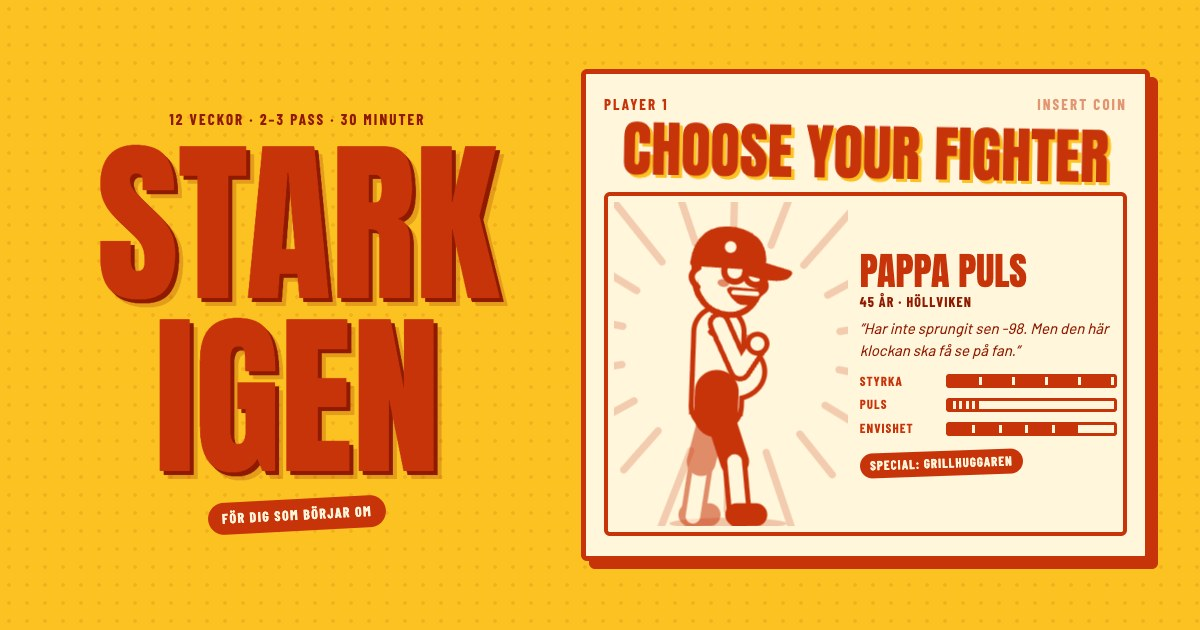
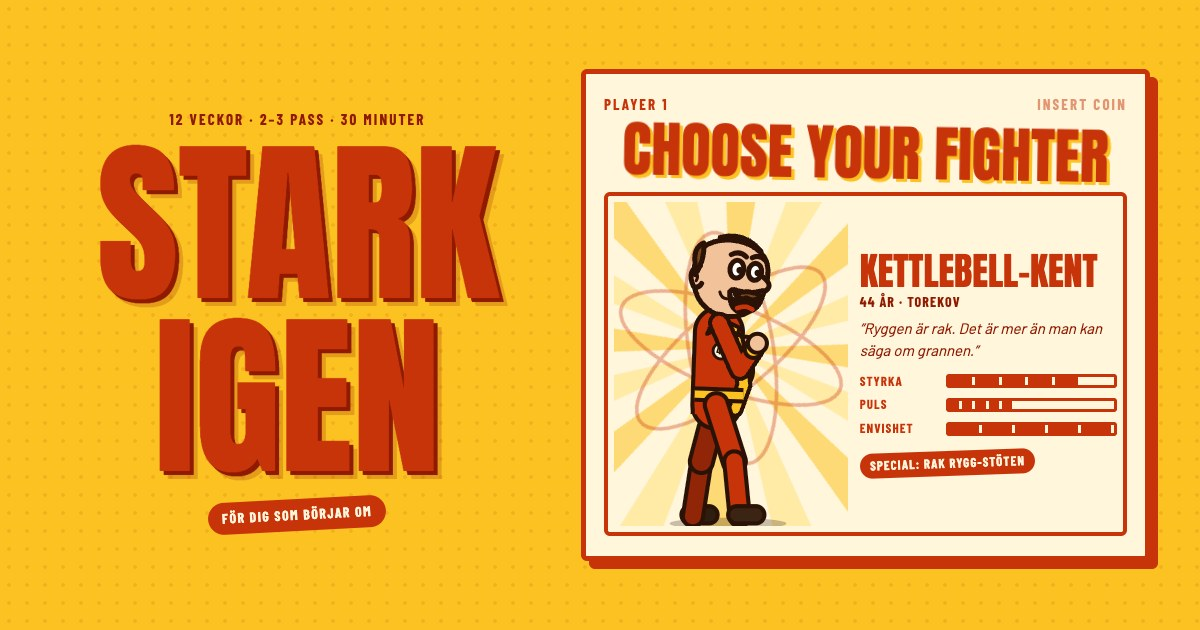
Träning: fighters i atompunk-stil (overaller, tuschlinje, atom-solstråle)

Changed region(s): [[0.4933, 0.3016, 0.925, 0.8444], [0.7708, 0.6333, 0.925, 0.754], [0.8942, 0.573, 0.925, 0.6333]]

diff --git a/traning/index.html b/traning/index.html
@@ -358,6 +358,8 @@ button,.btn{touch-action:manipulation;user-select:none;-webkit-user-select:none}
   <defs>
     <symbol id="kb" viewBox="0 0 56 70"><path d="M15 26 C11 6 45 6 41 26" fill="none" stroke="#C8340A" stroke-width="7" stroke-linecap="round"/>
       <circle cx="28" cy="44" r="22" fill="#C8340A"/><ellipse cx="20" cy="37" rx="6" ry="4" fill="#FFF6DC" opacity=".45"/><rect x="12" y="62" width="32" height="6" rx="3" fill="#8F1A00"/></symbol>
+    <symbol id="kbi" viewBox="0 0 56 70"><path d="M15 26 C11 6 45 6 41 26" fill="none" stroke="#2A1206" stroke-width="12" stroke-linecap="round"/><path d="M15 26 C11 6 45 6 41 26" fill="none" stroke="#4A4F57" stroke-width="6" stroke-linecap="round"/>
+      <circle cx="28" cy="44" r="22" fill="#4A4F57" stroke="#2A1206" stroke-width="5"/><path d="M14 36 Q18 28 26 27" fill="none" stroke="#9AA3AD" stroke-width="4" stroke-linecap="round"/><rect x="18" y="40" width="20" height="9" rx="2" fill="#FCC222" stroke="#2A1206" stroke-width="2.5"/></symbol>
   </defs>
 </svg>
 
@@ -450,96 +452,104 @@ function exPlan(id, sets, reps, mode) {
 
 // ---------------- figur-renderare ----------------
 const NS = 'http://www.w3.org/2000/svg';
-// ---------------- fighters (yamay-serie möter 50-tals-maskot: en röd linje, krämfärgad fyllning) ----------------
+// ---------------- fighters (atompunk: 50-talsmaskotar i overall, mörk tuschlinje, platta färger) ----------------
+const INK = '#2A1206', CREAM = '#FFF6DC', LN = '#C8340A';
 const FIGHTERS = [
-  {id:'kent', namn:'Kettlebell-Kent', kort:'Kent', alder:44, ort:'Torekov', motto:'Ryggen är rak. Det är mer än man kan säga om grannen.', hair:'flint', shorts:true, belly:7, st:[4,2,5], move:'Rak rygg-stöten'},
-  {id:'bettan', namn:'Bettan Bell', kort:'Bettan', alder:42, ort:'Båstad', motto:'Jag svettas inte. Jag glittrar. Mycket.', hair:'tofs', belly:0, st:[3,5,4], move:'Tofs-snurren'},
-  {id:'pappa', namn:'Pappa Puls', kort:'Pappa P', alder:45, ort:'Höllviken', motto:'Har inte sprungit sen -98. Men den här klockan ska få se på fan.', hair:'keps', shorts:true, belly:12, st:[5,1,4], move:'Grillhuggaren'},
-  {id:'sussie', namn:'Svettis-Sussie', kort:'Sussie', alder:41, ort:'Malmö', motto:'Uppvärmning är för folk som tänker sluta.', hair:'lockar', belly:0, st:[4,4,5], move:'Svettstormen'},
+  {id:'kent', namn:'Kettlebell-Kent', kort:'Kent', alder:44, ort:'Torekov', motto:'Ryggen är rak. Det är mer än man kan säga om grannen.', hair:'flint', hc:'#7A4A22', skin:'#F2C29A', suit:'#C8340A', trim:'#FCC222', nr:'44', belly:7, st:[4,2,5], move:'Rak rygg-stöten'},
+  {id:'bettan', namn:'Bettan Bell', kort:'Bettan', alder:42, ort:'Båstad', motto:'Jag svettas inte. Jag glittrar. Mycket.', hair:'rullar', hc:'#F4C431', skin:'#F6D0AE', suit:'#2E8C86', trim:'#FCC222', nr:'42', belly:0, st:[3,5,4], move:'Tofs-snurren'},
+  {id:'pappa', namn:'Pappa Puls', kort:'Pappa P', alder:45, ort:'Höllviken', motto:'Har inte sprungit sen -98. Men den här klockan ska få se på fan.', hair:'pompadour', hc:'#4A2A14', skin:'#E3A97E', suit:'#1F4E8C', trim:'#FCC222', nr:'45', belly:12, st:[5,1,4], move:'Grillhuggaren', glasses:true},
+  {id:'sussie', namn:'Svettis-Sussie', kort:'Sussie', alder:41, ort:'Malmö', motto:'Uppvärmning är för folk som tänker sluta.', hair:'scarf', hc:'#2A1206', skin:'#9A6240', suit:'#8F1A00', trim:'#FFF6DC', scarf:'#C8340A', nr:'41', belly:0, st:[4,4,5], move:'Svettstormen'},
 ];
 const fighterById = id => FIGHTERS.find(f => f.id === id) || FIGHTERS[0];
+const shade = (hex, k) => { const n = parseInt(hex.slice(1), 16); return '#' + [n >> 16, n >> 8 & 255, n & 255].map(v => Math.min(255, Math.round(v * k)).toString(16).padStart(2, '0')).join(''); };
 const ANIM = {
   guard:{poses:[P(ST,{hip:[110,122], kn:[122,161], an:[126,199], kn2:[100,161], an2:[94,199], el:[126,98], ha:[138,80], el2:[118,98], ha2:[130,82], head:[115,45], kbo:null}),
                 P(ST,{hip:[110,128], sh:[112,73], head:[116,51], kn:[125,165], an:[126,199], kn2:[98,165], an2:[94,199], el:[127,104], ha:[139,86], el2:[119,104], ha2:[131,88], kbo:null})], dur:420, effort:false},
-  // tummen upp + blink, handen i sidan
   flex:{poses:[P(ST,{el:[140,96], ha:[162,84], el2:[92,96], ha2:[104,112], kn:[120,161], an:[124,199], kn2:[100,161], an2:[96,199], kbo:null, thumb:1, wink:1}),
                P(ST,{hip:[110,123], sh:[112,69], head:[115,47], el:[141,92], ha:[164,78], el2:[92,98], ha2:[104,114], kn:[121,162], an:[124,199], kn2:[99,162], an2:[96,199], kbo:null, thumb:1, wink:1})], dur:500, effort:false},
 };
-const LN = '#C8340A', FILL = '#FFF6DC';
 function headSVG(f) {
-  const l = `stroke="${LN}" stroke-width="3.2" stroke-linecap="round" stroke-linejoin="round"`;
-  let back = '', top = '';
-  if (f.hair === 'flint') top = `<path d="M-8 -17 Q4 -24 14 -14" fill="none" ${l}/><path d="M-4 -19 Q6 -23 13 -17" fill="none" ${l}/>
-      <path d="M6 8 Q11 4 19 7 Q15 11 11 9 Q8 11 6 8Z" fill="${LN}" ${l}/><path d="M9 21 L10 18" ${l}/>`;
-  if (f.hair === 'tofs') { back = `<g class="tofs"><path d="M-14 -12 Q-34 -14 -30 6 Q-26 0 -22 2 Q-24 -6 -12 -6Z" fill="${LN}" ${l}/></g>`;
-      top = `<path d="M-17 -2 Q-20 -24 2 -23 Q18 -22 19 -8 Q8 -16 -2 -10 Q-8 -6 -12 2Z" fill="${LN}" ${l}/><circle cx="-14" cy="-10" r="3.5" fill="${FILL}" ${l}/>`; }
-  if (f.hair === 'keps') top = `<path d="M-18 -4 Q-18 -24 1 -24 Q18 -23 18 -7Z" fill="${LN}" ${l}/><path d="M12 -9 L32 -6 Q30 -1 13 -3Z" fill="${LN}" ${l}/>
-      <circle cx="0" cy="-15" r="3" fill="${FILL}"/><circle cx="4" cy="-3" r="5.5" fill="none" ${l}/><circle cx="15" cy="-3" r="5.5" fill="none" ${l}/><path d="M9.5 -3 L9.5 -3" ${l}/>`;
-  if (f.hair === 'lockar') { back = [[-15,-14],[-6,-21],[5,-21],[14,-16],[-20,-3],[-18,8]].map(([x,y]) => `<circle cx="${x}" cy="${y}" r="9" fill="${LN}" ${l}/>`).join('');
-      top = `<path d="M-15 -9 Q2 -17 18 -10" fill="none" stroke="${FILL}" stroke-width="6" stroke-linecap="round"/><path d="M-15 -9 Q2 -17 18 -10" fill="none" stroke="${LN}" stroke-width="1.5" stroke-dasharray="2 3"/>`; }
-  const glasses = f.hair === 'keps';
+  const l = `stroke="${INK}" stroke-width="2.6" stroke-linecap="round" stroke-linejoin="round"`;
+  const s = f.skin, h = f.hc;
+  let back = '', top = '', extra = '';
+  if (f.hair === 'flint') { top = `<path d="M-17 -4 Q-19 -12 -14 -15 Q-12 -6 -16 2Z" fill="${h}" ${l}/><path d="M-6 -19 Q6 -24 16 -15" fill="none" ${l}/>`;
+    extra = `<path d="M6 9 Q12 5 20 8 Q16 12 12 10 Q9 12 6 9Z" fill="${h}" ${l}/>`; }
+  if (f.hair === 'rullar') { back = `<g class="tofs"><path d="M-15 -8 Q-32 -8 -29 8 Q-26 16 -20 10 Q-26 2 -15 0Z" fill="${h}" ${l}/></g>`;
+    top = `<path d="M-18 -2 Q-22 -22 -4 -25 Q14 -27 20 -12 Q12 -20 2 -14 Q-6 -10 -12 2Z" fill="${h}" ${l}/><path d="M-4 -25 Q-10 -32 -2 -34 Q8 -34 6 -24" fill="${h}" ${l}/><path d="M2 -21 Q8 -22 12 -18" fill="none" ${l}/>`; }
+  if (f.hair === 'pompadour') top = `<path d="M-18 -2 Q-22 -20 -8 -26 Q4 -36 18 -30 Q26 -26 22 -16 Q16 -22 8 -18 Q14 -14 18 -10 Q4 -14 -6 -10 Q-12 -6 -14 2Z" fill="${h}" ${l}/><path d="M2 -28 Q12 -30 18 -25" fill="none" stroke="${shade(h, 1.8)}" stroke-width="2" stroke-linecap="round"/>`;
+  if (f.hair === 'scarf') { back = [[-17,-10],[-19,2],[-14,10]].map(([x,y]) => `<circle cx="${x}" cy="${y}" r="7" fill="${h}" ${l}/>`).join('');
+    top = `<path d="M-19 -6 Q-20 -27 2 -27 Q22 -26 21 -9 Q2 -16 -19 -6Z" fill="${f.scarf}" ${l}/>${[[-8,-20],[2,-22],[12,-18],[-12,-11],[6,-14]].map(([x,y]) => `<circle cx="${x}" cy="${y}" r="1.6" fill="${CREAM}"/>`).join('')}
+      <path d="M-3 -26 Q-6 -36 2 -35 Q6 -30 1 -26 Q8 -34 12 -30 Q12 -26 3 -25Z" fill="${f.scarf}" ${l}/>`; }
+  const eyes = `<g class="eyes-happy"><ellipse cx="5" cy="-4" rx="3.6" ry="4.6" fill="#fff" ${l}/><ellipse cx="14.5" cy="-4" rx="3.4" ry="4.4" fill="#fff" ${l}/><circle cx="6.6" cy="-3.6" r="1.8" fill="${INK}"/><circle cx="16" cy="-3.6" r="1.7" fill="${INK}"/></g>
+    <g class="eyes-wink" style="display:none"><path d="M1.5 -4 Q5 -7 8.5 -4" fill="none" ${l}/><ellipse cx="14.5" cy="-4" rx="3.4" ry="4.4" fill="#fff" ${l}/><circle cx="16" cy="-3.6" r="1.7" fill="${INK}"/></g>
+    <g class="eyes-grit" style="display:none"><path d="M1.5 -7 L7.5 -4 L1.5 -1.5" fill="none" ${l}/><path d="M18.5 -7 L12.5 -4 L18.5 -1.5" fill="none" ${l}/></g>`;
+  const brows = `<path class="brow" d="M1 -11 Q5 -14 9 -11" fill="none" ${l}/><path class="brow" d="M12 -11 Q15.5 -13.5 19 -10.5" fill="none" ${l}/>`;
+  const glasses = f.glasses ? `<g fill="none" ${l}><circle cx="5" cy="-4" r="6"/><circle cx="15" cy="-4" r="5.6"/><path d="M11 -5 L9.4 -5 M-1 -5 L-12 -4"/></g>` : '';
   return `${back}
-    <path d="M-17 -3 C-18 -21 17 -23 19 -5 C20 8 15 19 4 20 C-8 21 -17 11 -17 -3Z" fill="${FILL}" ${l}/>
-    <path d="M-15 -2 Q-21 3 -14 8" fill="${FILL}" ${l}/>
-    <path d="M19 -1 Q23 3 19 6" fill="none" ${l}/>
-    <g class="eyes-happy">${glasses ? '' : `<path d="M1 -3 Q4 -7 7 -3" fill="none" ${l}/>`}<path d="M12 -3 Q15 -7 18 -3" fill="none" ${l}/></g>
-    <g class="eyes-wink" style="display:none"><path d="M1 -4 L7 -3" fill="none" ${l}/><circle cx="15" cy="-4" r="2.4" fill="${LN}"/></g>
-    <g class="eyes-grit" style="display:none"><path d="M1 -6 L6 -3 L1 -1" fill="none" ${l}/><path d="M18 -6 L13 -3 L18 -1" fill="none" ${l}/></g>
-    <g class="m-happy"><path d="M3 7 Q11 18 19 6 Z" fill="${LN}" ${l}/><path d="M5 8 L17 7" stroke="${FILL}" stroke-width="2.4" stroke-linecap="round"/></g>
-    <g class="m-grit" style="display:none"><rect x="4" y="6" width="14" height="7" rx="3" fill="${FILL}" ${l}/><path d="M8 6 V13 M12 6 V13 M4 9.5 H18" stroke="${LN}" stroke-width="1.6"/></g>
-    <ellipse cx="18" cy="3" rx="3.4" ry="2.2" fill="${LN}" opacity=".75"/><ellipse cx="-1" cy="4" rx="3" ry="2" fill="${LN}" opacity=".55"/>
-    ${top}
-    <g class="sweat" style="display:none"><path d="M-6 -24 Q-10 -18 -6 -16 Q-2 -18 -6 -24Z" fill="${FILL}" ${l}/><path d="M24 -16 Q20 -10 24 -8 Q28 -10 24 -16Z" fill="${FILL}" ${l}/></g>`;
+    <path d="M-17 -4 C-18 -22 18 -24 21 -6 C23 8 17 20 4 21 C-9 22 -18 12 -17 -4Z" fill="${s}" ${l}/>
+    <path d="M-14 -3 Q-21 0 -16 8 Q-13 9 -12 6" fill="${s}" ${l}/><path d="M-15.5 1 Q-14 3 -15 5" fill="none" stroke="${INK}" stroke-width="1.6" stroke-linecap="round"/>
+    ${eyes}${brows}
+    <path d="M19 -2 Q26 2 20 6" fill="${s}" ${l}/>
+    <g class="m-happy"><path d="M3 8 Q4 6 7 7 Q14 8 20 5 Q21 16 11 18 Q4 18 3 8Z" fill="${INK}" ${l}/><path d="M4.5 8.6 Q12 10 19.4 6.4 L19 9 Q12 12 5 10.5Z" fill="#fff"/><path d="M8 16 Q12 13.5 16 15.5" fill="none" stroke="${LN}" stroke-width="2.4" stroke-linecap="round"/></g>
+    <g class="m-grit" style="display:none"><rect x="4" y="7" width="15" height="8" rx="3" fill="#fff" ${l}/><path d="M8.5 7 V15 M13.5 7 V15 M4 11 H19" stroke="${INK}" stroke-width="1.5"/></g>
+    <path d="M-2 9 Q-1 12 2 12" fill="none" stroke="${INK}" stroke-width="1.6" stroke-linecap="round"/>
+    ${extra}${glasses}${top}
+    <g class="sweat" style="display:none"><path d="M-8 -26 Q-12 -19 -8 -17 Q-4 -19 -8 -26Z" fill="#9FE3F5" ${l}/><path d="M25 -15 Q21 -9 25 -7 Q29 -9 25 -15Z" fill="#9FE3F5" ${l}/></g>`;
 }
 // Ritar en fighter som gör en övning. ex: {poses, dur, cycle, walk, bell, kb2, prop, effort}. svg.setAnim(ex) byter rörelse.
 function figure(ex, f = fighterById(localStorage.getItem('bc_traning_fighter')), opts = {}) {
   const svg = document.createElementNS(NS, 'svg'); svg.setAttribute('viewBox', opts.vb || '0 -14 240 230'); svg.classList.add('fig');
   const mk = (tag, at, par = svg) => { const n = document.createElementNS(NS, tag); for (const k in at) n.setAttribute(k, at[k]); par.appendChild(n); return n; };
-  // solstrålar (yamay)
-  if (opts.rays !== false) { const rg = mk('g', {class:'rays', opacity:.22}); const [vx, vy, vw, vh] = (opts.vb || '0 -14 240 230').split(' ').map(Number), cx = vx + vw / 2, cy = vy + vh * .45, R = Math.max(vw, vh);
-    for (let i = 0; i < 18; i++) { const a = i / 18 * Math.PI * 2; mk('line', {x1:cx + Math.cos(a) * R * .34, y1:cy + Math.sin(a) * R * .34, x2:cx + Math.cos(a) * R * (i % 2 ? .5 : .62), y2:cy + Math.sin(a) * R * (i % 2 ? .5 : .62), stroke:LN, 'stroke-width':5, 'stroke-linecap':'round'}, rg); }
-    rg.style.transformOrigin = `${cx}px ${cy}px`; rg.style.animation = 'spin 40s linear infinite'; }
+  if (opts.rays !== false) { const rg = mk('g', {class:'rays'}); const [vx, vy, vw, vh] = (opts.vb || '0 -14 240 230').split(' ').map(Number), cx = vx + vw / 2, cy = vy + vh * .45, R = Math.max(vw, vh);
+    for (let i = 0; i < 16; i++) { const a0 = i / 16 * Math.PI * 2, a1 = a0 + Math.PI / 16;
+      mk('path', {d:`M${cx} ${cy} L${cx + Math.cos(a0) * R} ${cy + Math.sin(a0) * R} L${cx + Math.cos(a1) * R} ${cy + Math.sin(a1) * R}Z`, fill:i % 2 ? '#FCC222' : '#FFE07A', opacity:.55}, rg); }
+    const at = mk('g', {opacity:.35, fill:'none', stroke:LN, 'stroke-width':2.5}, rg);
+    for (const r of [0, 60, 120]) mk('ellipse', {cx, cy, rx:R * .36, ry:R * .13, transform:`rotate(${r} ${cx} ${cy})`}, at);
+    rg.style.transformOrigin = `${cx}px ${cy}px`; rg.style.animation = 'spin 60s linear infinite'; }
   const props = mk('g', {});
-  if (!opts.noGround) mk('line', {x1:8, y1:202, x2:232, y2:202, stroke:LN, 'stroke-width':4, 'stroke-linecap':'round'}, props);
-  const shadow = mk('ellipse', {cx:110, cy:204, rx:40, ry:4, fill:LN, opacity:.25});
-  const W = 3.4;   // linjebredd
-  const tube = (w, fill = FILL, par = svg) => { const g = mk('g', {}, par); const a = mk('polyline', {stroke:LN, 'stroke-width':w + W * 2, 'stroke-linecap':'round', 'stroke-linejoin':'round', fill:'none'}, g);
+  if (!opts.noGround) { mk('rect', {x:-20, y:202, width:280, height:40, fill:'#E8A93A'}, props); mk('line', {x1:-20, y1:202, x2:260, y2:202, stroke:INK, 'stroke-width':3}, props); }
+  const shadow = mk('ellipse', {cx:110, cy:204, rx:40, ry:4, fill:INK, opacity:.25});
+  const W = 2.8;
+  const tube = (w, fill, par = svg) => { const g = mk('g', {}, par); const a = mk('polyline', {stroke:INK, 'stroke-width':w + W * 2, 'stroke-linecap':'round', 'stroke-linejoin':'round', fill:'none'}, g);
     const b = mk('polyline', {stroke:fill, 'stroke-width':w, 'stroke-linecap':'round', 'stroke-linejoin':'round', fill:'none'}, g); return {set(p) { a.setAttribute('points', p); b.setAttribute('points', p); }}; };
-  const kbg = () => { const g = mk('g', {}); g.innerHTML = `<g transform="translate(-12,-15) scale(.43)"><use href="#kb" width="56" height="70"/></g>`; return g; };
-  const handC = () => { const g = mk('g', {}); g.innerHTML = `<g class="fist" style="display:none"><path d="M-1 -4 Q-4 -15 1 -16 Q5 -16 5 -9 L6 -4" fill="${FILL}" stroke="${LN}" stroke-width="${W}" stroke-linejoin="round" transform="rotate(-18)"/>
-      <rect x="-8" y="-5" width="15" height="12" rx="5" fill="${FILL}" stroke="${LN}" stroke-width="${W}"/><path d="M-8 -1 H-2 M-8 3 H-2" stroke="${LN}" stroke-width="2" stroke-linecap="round"/></g>
-      <circle class="mitt" r="6.5" fill="${FILL}" stroke="${LN}" stroke-width="${W}"/>`; return g; };
-  // bortre sida (samma stil, lite ljusare linje)
-  const back = mk('g', {opacity:.55});
-  const shoe2 = tube(9, LN, back), shin2 = tube(10, f.shorts ? FILL : LN, back), thigh2 = tube(13, LN, back);
-  const kbBack = kbg(); back.appendChild(kbBack);
-  const arm2 = tube(9, FILL, back); const hand2 = handC(); back.appendChild(hand2);
-  // bål: alla konturer först, sedan alla fyllningar = en sammanhängande siluett
+  const kbg = () => { const g = mk('g', {}); g.innerHTML = `<g transform="translate(-12,-15) scale(.43)"><use href="#kbi" width="56" height="70"/></g>`; return g; };
+  const handC = (skin) => { const g = mk('g', {}); g.innerHTML = `<g class="fist" style="display:none"><path d="M-1 -4 Q-4 -16 1 -17 Q6 -17 5 -9 L6 -4" fill="${skin}" stroke="${INK}" stroke-width="${W}" stroke-linejoin="round" transform="rotate(-18)"/>
+      <rect x="-8" y="-5" width="15" height="12" rx="5" fill="${skin}" stroke="${INK}" stroke-width="${W}"/><path d="M-8 -1 H-2 M-8 3 H-2" stroke="${INK}" stroke-width="1.8" stroke-linecap="round"/></g>
+      <circle class="mitt" r="6.5" fill="${skin}" stroke="${INK}" stroke-width="${W}"/>`; return g; };
+  const suitD = shade(f.suit, .72), skinD = shade(f.skin, .82), boot = '#3B2414';
+  const shoe2 = tube(9, shade(boot, .8)), shin2 = tube(11, suitD), thigh2 = tube(13, suitD);
+  const kbBack = kbg();
+  const arm2 = tube(10, suitD); const cuff2 = mk('circle', {r:6, fill:shade(f.trim, .8), stroke:INK, 'stroke-width':W}); const hand2 = handC(skinD);
   const bodyO = mk('g', {}), bodyF = mk('g', {});
-  const tO = mk('polyline', {stroke:LN, 'stroke-width':31 + W * 2, 'stroke-linecap':'round', fill:'none'}, bodyO), tF = mk('polyline', {stroke:FILL, 'stroke-width':31, 'stroke-linecap':'round', fill:'none'}, bodyF);
-  const bO = mk('ellipse', {fill:LN}, bodyO), bF = mk('ellipse', {fill:FILL}, bodyF);
-  const pO = mk('polyline', {stroke:LN, 'stroke-width':30 + W * 2, 'stroke-linecap':'butt', fill:'none'}, bodyO), pF = mk('polyline', {stroke:LN, 'stroke-width':30, 'stroke-linecap':'round', fill:'none'}, bodyF);
-  const collar = mk('path', {fill:'none', stroke:LN, 'stroke-width':W, 'stroke-linecap':'round'});
-  const thigh = tube(13, LN), shin = tube(10, f.shorts ? FILL : LN), shoe = tube(9, LN);
+  const tO = mk('polyline', {stroke:INK, 'stroke-width':30 + W * 2, 'stroke-linecap':'round', fill:'none'}, bodyO), tF = mk('polyline', {stroke:f.suit, 'stroke-width':30, 'stroke-linecap':'round', fill:'none'}, bodyF);
+  const bO = mk('ellipse', {fill:INK}, bodyO), bF = mk('ellipse', {fill:f.suit}, bodyF);
+  const pO = mk('polyline', {stroke:INK, 'stroke-width':29 + W * 2, 'stroke-linecap':'butt', fill:'none'}, bodyO), pF = mk('polyline', {stroke:f.suit, 'stroke-width':29, 'stroke-linecap':'butt', fill:'none'}, bodyF);
+  const stripeO = mk('polyline', {stroke:INK, 'stroke-width':6 + W * 2, 'stroke-linecap':'round', fill:'none'}), stripe = mk('polyline', {stroke:f.trim, 'stroke-width':6, 'stroke-linecap':'round', fill:'none'});
+  const beltO = mk('polyline', {stroke:INK, 'stroke-width':5 + W * 2, 'stroke-linecap':'butt', fill:'none'}), belt = mk('polyline', {stroke:f.trim, 'stroke-width':5, 'stroke-linecap':'butt', fill:'none'});
+  const collar = mk('path', {fill:f.trim, stroke:INK, 'stroke-width':W, 'stroke-linejoin':'round'});
+  const badge = mk('g', {}); badge.innerHTML = `<circle r="5.5" fill="${CREAM}" stroke="${INK}" stroke-width="2"/><text y="2.3" text-anchor="middle" font-family="Anton,Impact,sans-serif" font-size="6.5" fill="${INK}">${f.nr}</text>`;
+  const thigh = tube(13, f.suit), shin = tube(11, f.suit), shoe = tube(9, boot);
   const headG = mk('g', {}); headG.innerHTML = headSVG(f);
   const q = c => headG.querySelector(c), tofs = q('.tofs');
   const kbFront = kbg();
-  const arm = tube(9); const hand = handC();
+  const arm = tube(10, f.suit); const cuff = mk('circle', {r:6, fill:f.trim, stroke:INK, 'stroke-width':W}); const hand = handC(f.skin);
   const lerp = (a, b, t) => a + (b - a) * t;
   const pts = (...p) => p.map(z => z[0].toFixed(1) + ',' + z[1].toFixed(1)).join(' ');
+  const along = (a, b, k) => [lerp(a[0], b[0], k), lerp(a[1], b[1], k)];
   let cur, t0, face = '';
   svg.setAnim = (e) => {
     cur = e; t0 = performance.now(); props.querySelectorAll('.prop').forEach(n => n.remove());
-    const pr = {fill:FILL, stroke:LN, 'stroke-width':W, 'stroke-linejoin':'round', class:'prop'};
-    if (e.prop === 'mat') mk('rect', {...pr, x:22, y:196, width:186, height:6, rx:3}, props);
+    const pr = {fill:'#7FB8B4', stroke:INK, 'stroke-width':W, 'stroke-linejoin':'round', class:'prop'};
+    if (e.prop === 'mat') mk('rect', {...pr, fill:LN, x:22, y:196, width:186, height:6, rx:3}, props);
     if (e.prop === 'boxlow') { mk('rect', {...pr, x:46, y:160, width:44, height:42, rx:4}, props); mk('path', {...pr, fill:'none', d:'M54 172 h28 M54 182 h28'}, props); }
-    if (e.prop === 'bench') { mk('rect', {...pr, x:146, y:138, width:76, height:11, rx:4}, props); mk('path', {...pr, fill:'none', d:'M158 149 V202 M210 149 V202', 'stroke-width':5}, props); }
+    if (e.prop === 'bench') { mk('rect', {...pr, fill:LN, x:146, y:138, width:76, height:11, rx:4}, props); mk('path', {...pr, fill:'none', d:'M158 149 V202 M210 149 V202', 'stroke-width':5}, props); }
   };
   svg.setAnim(ex);
   const L = (A, B, k, t) => { const a = A[k] ?? A[k.replace('2','')], b = B[k] ?? B[k.replace('2','')]; return [lerp(a[0], b[0], t), lerp(a[1], b[1], t)]; };
   const setFace = (m) => { if (m === face) return; face = m;
     q('.eyes-happy').style.display = m === 'happy' ? '' : 'none'; q('.eyes-wink').style.display = m === 'wink' ? '' : 'none'; q('.eyes-grit').style.display = m === 'grit' ? '' : 'none';
-    q('.m-happy').style.display = m === 'grit' ? 'none' : ''; q('.m-grit').style.display = m === 'grit' ? '' : 'none'; q('.sweat').style.display = m === 'grit' ? '' : 'none'; };
+    q('.m-happy').style.display = m === 'grit' ? 'none' : ''; q('.m-grit').style.display = m === 'grit' ? '' : 'none'; q('.sweat').style.display = m === 'grit' ? '' : 'none';
+    headG.querySelectorAll('.brow').forEach(b => b.setAttribute('transform', m === 'grit' ? 'translate(0,2.5)' : m === 'wink' ? 'translate(0,-1.5)' : '')); };
   function frame(now) {
     if (!svg.isConnected && now - t0 > 800) return;
     const e = cur, n = e.poses.length, u = (now - t0) / e.dur;
@@ -552,25 +562,31 @@ function figure(ex, f = fighterById(localStorage.getItem('bc_traning_fighter')),
     const hip = Bb(g('hip')), sh = Bb(g('sh')), kn = g('kn'), an = g('an'), kn2 = g('kn2'), an2 = g('an2'), el = Bb(g('el')), ha = Bb(g('ha')), el2 = Bb(g('el2')), ha2 = Bb(g('ha2')), hd0 = Bb(g('head'));
     const toe = a => [a[0] + 11, a[1] - 1], heel = a => [a[0] - 2, a[1] - 1];
     thigh2.set(pts(hip, kn2)); shin2.set(pts(kn2, an2)); shoe2.set(pts(heel(an2), toe(an2)));
-    arm2.set(pts(sh, el2, ha2)); hand2.setAttribute('transform', `translate(${ha2[0]},${ha2[1]})`);
+    const w2 = along(el2, ha2, .78); arm2.set(pts(sh, el2, w2)); cuff2.setAttribute('cx', w2[0]); cuff2.setAttribute('cy', w2[1]); hand2.setAttribute('transform', `translate(${ha2[0]},${ha2[1]})`);
     const v = [sh[0] - hip[0], sh[1] - hip[1]], len = Math.hypot(...v), u1 = [v[0] / len, v[1] / len], nrm = [-u1[1], u1[0]];
     const shT = [hip[0] + u1[0] * (len - 6), hip[1] + u1[1] * (len - 6)];
     tO.setAttribute('points', pts(hip, shT)); tF.setAttribute('points', pts(hip, shT));
     const bel = f.belly, bm = [hip[0] + v[0] * .42 + nrm[0] * (4 + bel * .55), hip[1] + v[1] * .42 + nrm[1] * (4 + bel * .55)], rot = Math.atan2(u1[1], u1[0]) * 180 / Math.PI + 90;
-    for (const [el_, extra] of [[bO, W], [bF, 0]]) { el_.setAttribute('cx', bm[0]); el_.setAttribute('cy', bm[1]); el_.setAttribute('rx', (bel ? 8 + bel : 0) + (bel ? extra : 0)); el_.setAttribute('ry', (bel ? 10 + bel * .6 : 0) + (bel ? extra : 0)); el_.setAttribute('transform', `rotate(${rot} ${bm[0]} ${bm[1]})`); }
+    for (const [el_, extra] of [[bO, W], [bF, 0]]) { el_.setAttribute('cx', bm[0]); el_.setAttribute('cy', bm[1]); el_.setAttribute('rx', bel ? 8 + bel + extra : 0); el_.setAttribute('ry', bel ? 10 + bel * .6 + extra : 0); el_.setAttribute('transform', `rotate(${rot} ${bm[0]} ${bm[1]})`); }
     const hp = [hip[0] + u1[0] * 9, hip[1] + u1[1] * 9], hq = [hip[0] - u1[0] * 7, hip[1] - u1[1] * 7]; pO.setAttribute('points', pts(hp, hq)); pF.setAttribute('points', pts(hp, hq));
-    const c1 = [shT[0] + nrm[0] * 8 - u1[0] * 2, shT[1] + nrm[1] * 8 - u1[1] * 2], c2 = [shT[0] - u1[0] * 7, shT[1] - u1[1] * 7];
-    collar.setAttribute('d', `M${c1[0].toFixed(1)} ${c1[1].toFixed(1)} Q${(c2[0] + nrm[0] * 3).toFixed(1)} ${(c2[1] + nrm[1] * 3).toFixed(1)} ${(shT[0] - nrm[0] * 6).toFixed(1)} ${(shT[1] - nrm[1] * 6).toFixed(1)}`);
+    const fr = (k, off) => [hip[0] + v[0] * k + nrm[0] * off, hip[1] + v[1] * k + nrm[1] * off];
+    const fo = 12 + bel * .9;
+    const sp = [fr(-.05, 13), fr(.25, fo), fr(.5, fo * .9), fr(.8, 12)];
+    stripeO.setAttribute('points', pts(...sp)); stripe.setAttribute('points', pts(...sp));
+    const b1 = fr(.12, -15), b2 = fr(.12, 14 + bel * .6); beltO.setAttribute('points', pts(b1, b2)); belt.setAttribute('points', pts(b1, b2));
+    const c1 = fr(.86, 13), c2 = fr(.98, 3), c3 = fr(.86, -8), c4 = fr(.95, -6), c5 = fr(1.03, 4), c6 = fr(.95, 14);
+    collar.setAttribute('d', 'M' + [c1, c2, c3, c4, c5, c6].map(p => p[0].toFixed(1) + ' ' + p[1].toFixed(1)).join(' L') + 'Z');
+    const bp = fr(.66, 2); badge.setAttribute('transform', `translate(${bp[0].toFixed(1)},${bp[1].toFixed(1)}) rotate(${rot})`);
     thigh.set(pts(hip, kn)); shin.set(pts(kn, an)); shoe.set(pts(heel(an), toe(an)));
-    // stort huvud: lite längre från axeln än i riggen
     const dv = [hd0[0] - sh[0], hd0[1] - sh[1]], dl = Math.hypot(...dv) || 1, hd = [sh[0] + dv[0] / dl * 33, sh[1] + dv[1] / dl * 33];
     const ang = Math.atan2(dv[1], dv[0]) * 180 / Math.PI + 90;
     headG.setAttribute('transform', `translate(${hd[0].toFixed(1)},${hd[1].toFixed(1)}) rotate(${ang.toFixed(1)}) scale(1.32)`);
-    if (tofs) tofs.setAttribute('transform', `rotate(${Math.sin(now / 170) * 12} -14 -8)`);
+    if (tofs) tofs.setAttribute('transform', `rotate(${Math.sin(now / 170) * 12} -14 -6)`);
     const effortOn = e.effort !== false && !e.walk && !e.cycle;
     setFace(A.wink ? 'wink' : (effortOn && raw > .62 ? 'grit' : 'happy'));
-    arm.set(pts(sh, el, ha)); hand.setAttribute('transform', `translate(${ha[0]},${ha[1]})`);
+    const w1 = along(el, ha, .78); arm.set(pts(sh, el, w1)); cuff.setAttribute('cx', w1[0]); cuff.setAttribute('cy', w1[1]); hand.setAttribute('transform', `translate(${ha[0]},${ha[1]})`);
     hand.querySelector('.fist').style.display = A.thumb ? '' : 'none'; hand.querySelector('.mitt').style.display = A.thumb ? 'none' : '';
+    cuff.style.display = A.thumb ? 'none' : '';
     shadow.setAttribute('cx', (hip[0] + an[0]) / 2);
     const oa = A.kbo === undefined ? [0, 14] : A.kbo, ob = B.kbo === undefined ? [0, 14] : B.kbo;
     if (oa && ob) { const o = [lerp(oa[0], ob[0], t), lerp(oa[1], ob[1], t)];

diff --git a/traning/sw.js b/traning/sw.js
@@ -1,5 +1,5 @@
 // Stark igen: offline-cache sa sidan funkar pa gymmet utan tackning.
-const C = 'stark-igen-v3';
+const C = 'stark-igen-v4';
 const CORE = ['./', './index.html', './manifest.webmanifest', './icon-192.png', './icon-512.png'];
 self.addEventListener('install', e => { e.waitUntil(caches.open(C).then(c => c.addAll(CORE)).then(() => self.skipWaiting())); });
 self.addEventListener('activate', e => { e.waitUntil(caches.keys().then(ks => Promise.all(ks.filter(k => k !== C).map(k => caches.delete(k)))).then(() => self.clients.claim())); });
